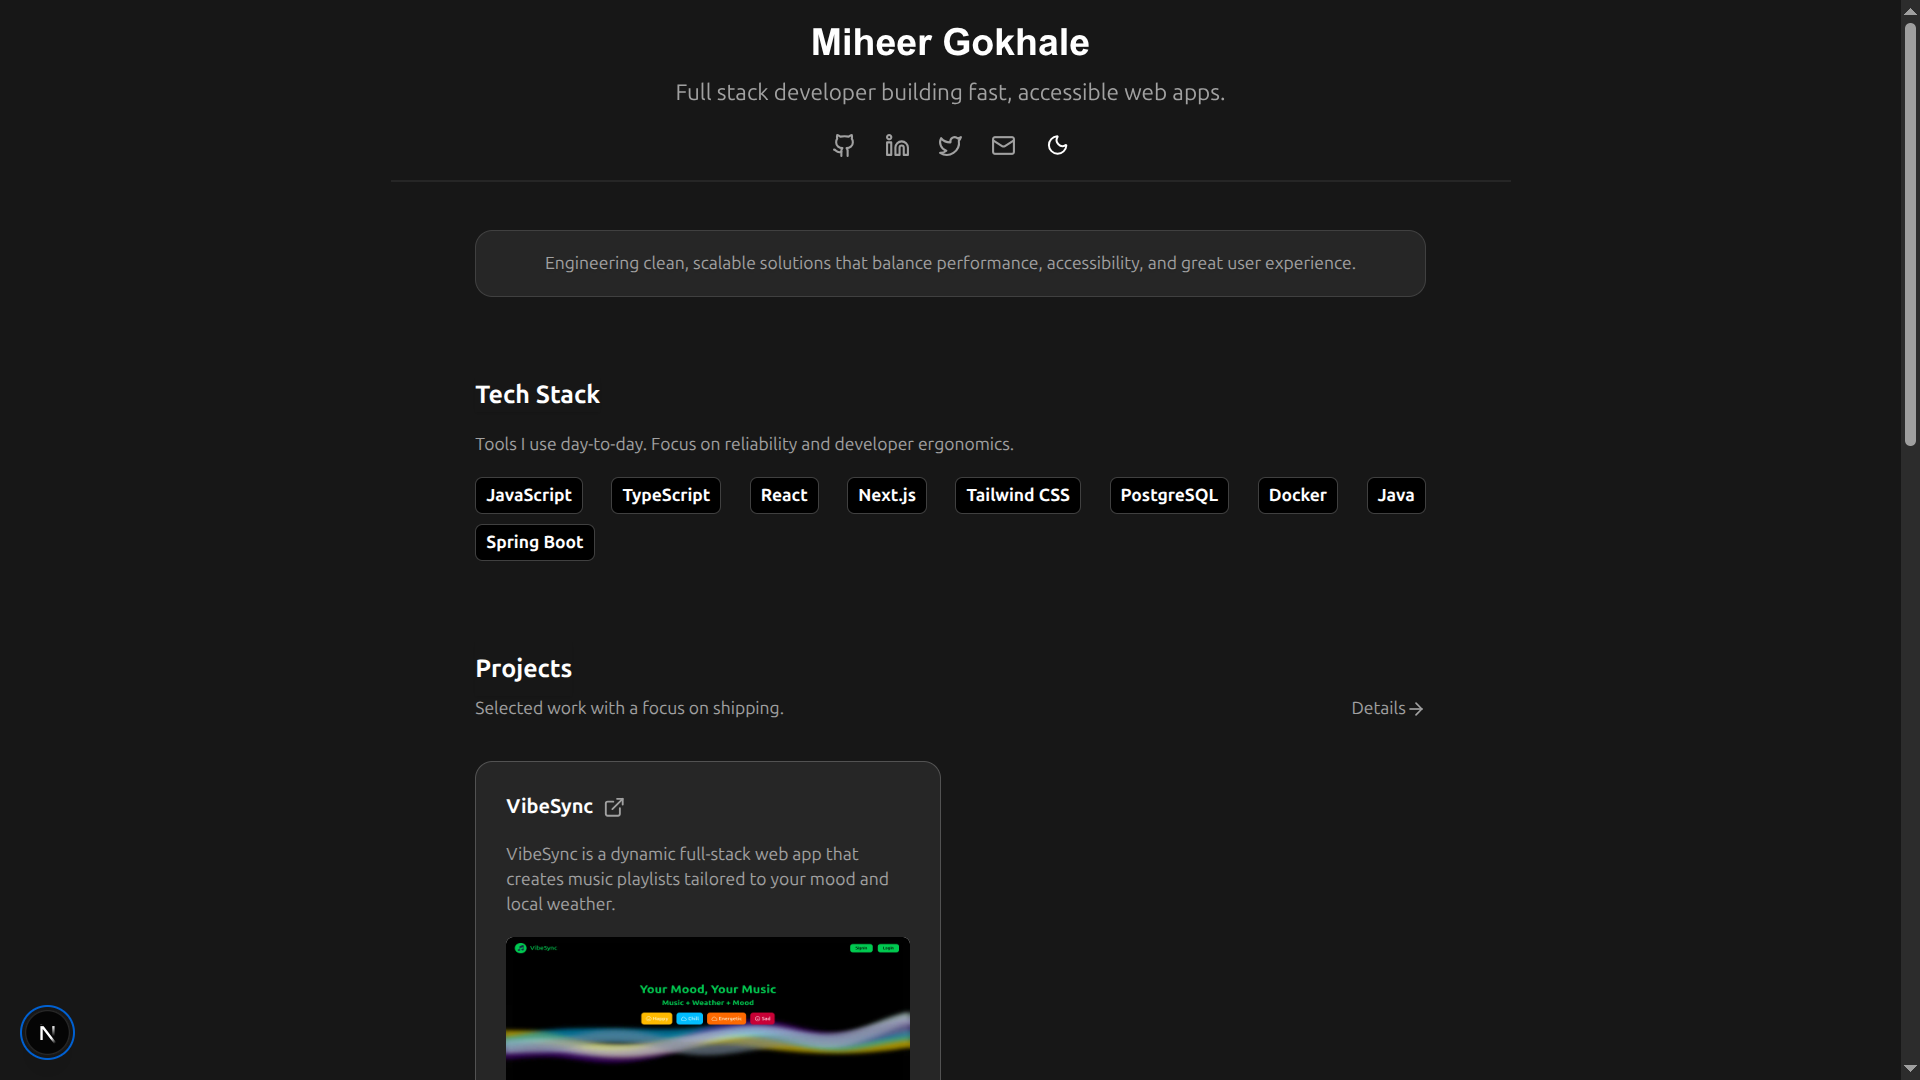
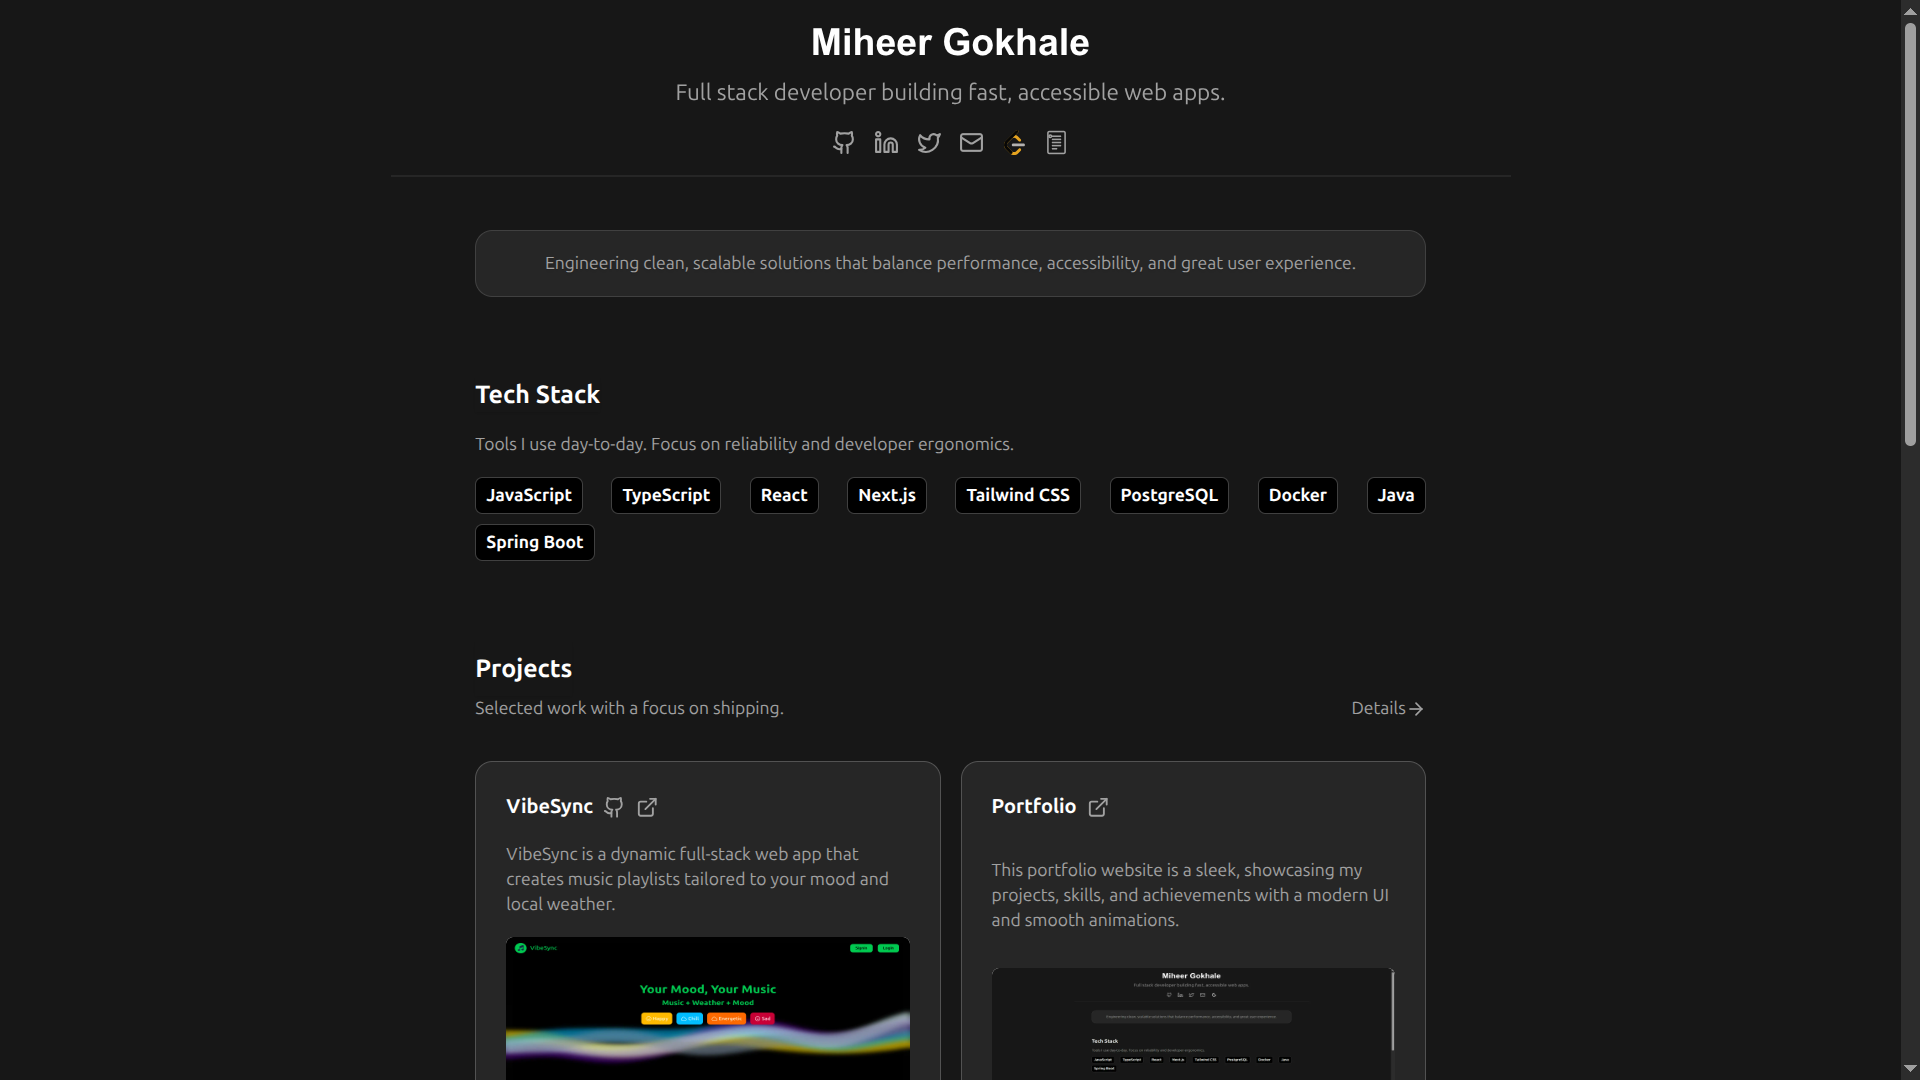
some adjustment in project content

diff --git a/lib/data/projects.ts b/lib/data/projects.ts
@@ -20,12 +20,18 @@ export const projects:ProjectProps[] = [
     },
     {
         title: "Portfolio",
-        description: "This portfolio website is a sleek, showcasing my projects, skills, and achievements with a modern UI and smooth animations.",
+        description: "A modern and responsive personal portfolio built with Next.js and Tailwind CSS.",
         image: "/portfolio.png",
         stacks: [
             {name: "Next.js"}, {name: "Tailwind"}, {name: "Motion"}
         ],
-        live: "",
+        contents: [
+            "Designed and developed a sleek, responsive portfolio website to showcase projects, skills, and achievements.",
+            "Implemented smooth animations and transitions using Framer Motion for an engaging user experience.",
+            "Structured the project with Next.js for optimized performance, SEO, and scalability.",
+            "Built reusable UI components with Tailwind CSS, ensuring consistency and a clean modern design."
+        ],
+        live: "https://portfolio-xi-one-vxnd3j77c7.vercel.app/",
         github: "",
         link: "/"
     }
